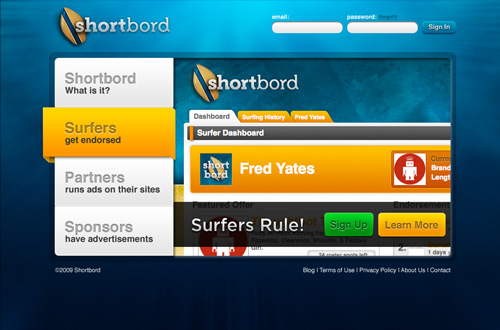
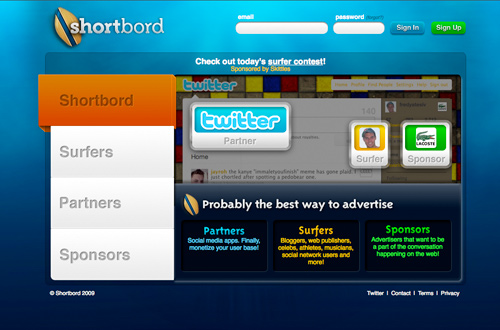
new shortbord screenshot and copy

diff --git a/index.html b/index.html
@@ -44,7 +44,10 @@ keyword: home
               <h6 class="featured_proj">Project Spotlight</h6>
               <h3>Shortbord</h3>
               <div class="hr"></div>
-              <p>Lorem ipsum dolor sit amet, consectetur adipisicing elit, sed do eiusmod tempor incididunt ut labore et dolore magna aliqua. Ut enim ad minim veniam, quis nostrud exercitation ullamco laboris nisi ut aliquip ex ea commodo consequat. Duis aute irure dolor in reprehenderit in voluptate velit esse cillum dolore eu fugiat nulla pariatur. Excepteur sint occaecat cupidatat non proident, sunt in culpa qui officia deserunt mollit anim id est laborum.</p>
+              <p>Shortbord is probably the best way to advertise on the web. Social media users ("surfers") sign endorsement deals with companies ("sponsors") to display the company's logo next to the surfer's avatar on social media sites ("partners").
+                </p>
+                <p>
+              thoughtbot worked with the three founders of Shortbord to design and build a Rails app from scratch. As part of our Kickstart program, the founders work out of our Boston office and we help them find and train technical hires.</p>
               <div class="clearfix">
                 <a class="prev-project" href="#">Prev project</a>
                 <a class="next-project" href="#">Next project</a>
